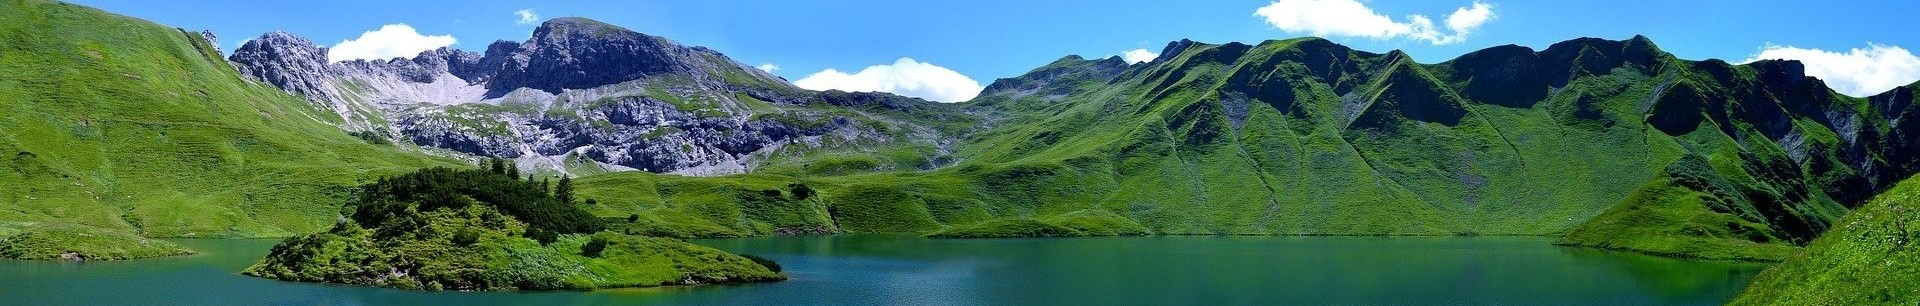
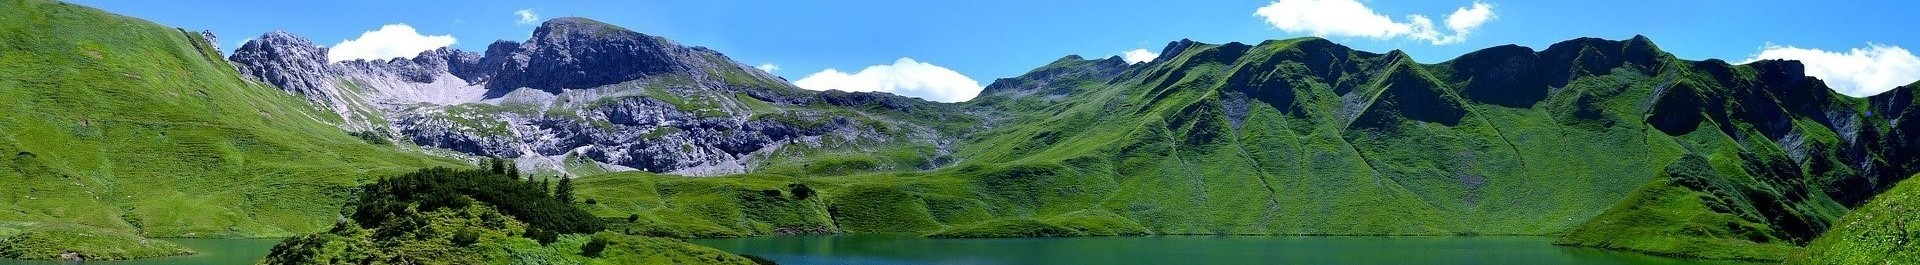
responsive Ok

diff --git a/src/index.scss b/src/index.scss
@@ -9,6 +9,6 @@ body {
   align-items: center;
   background-image: url("./img/mountain.jpeg");
   background-repeat: no-repeat;
-  background-size: 100% 60%;
+  background-size: auto;
   background-color: rgb(250, 250, 250);
 }

diff --git a/src/App.module.scss b/src/App.module.scss
@@ -5,3 +5,10 @@
   align-items: center;
   width: 500px;
 }
+
+@media (max-width: 560px) {
+  .main {
+    width: 90%;
+    margin: 0 auto;
+  }
+}

diff --git a/src/components/Title/Title.module.scss b/src/components/Title/Title.module.scss
@@ -5,3 +5,9 @@
     font-weight: bold;
 }
 
+@media (max-width: 560px) {
+    .title {
+        width: 90%;
+        margin: 50px auto;
+    }
+}
